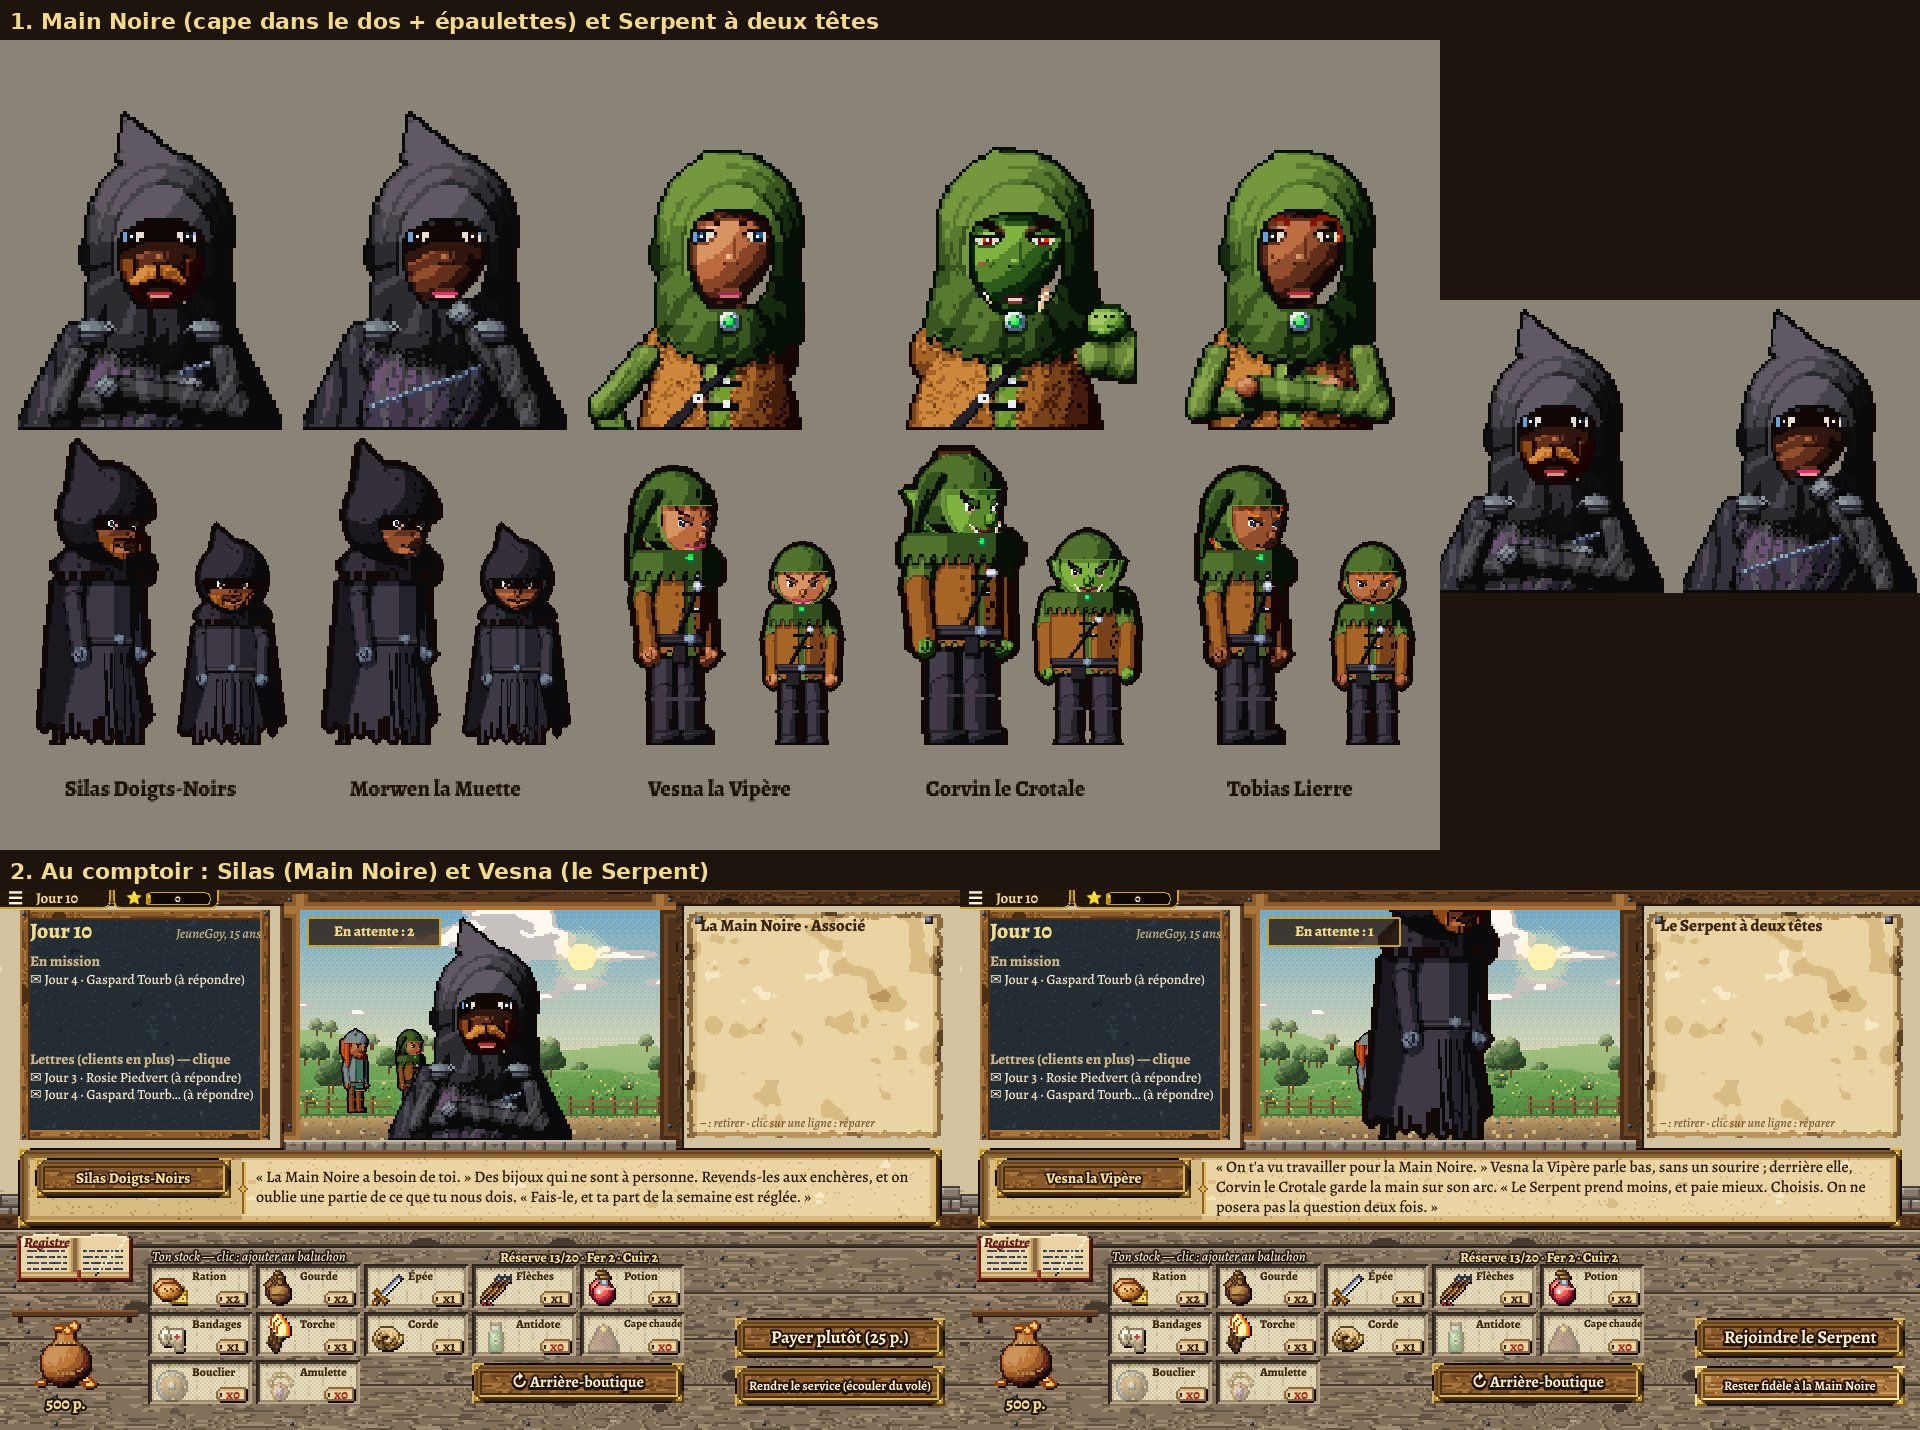
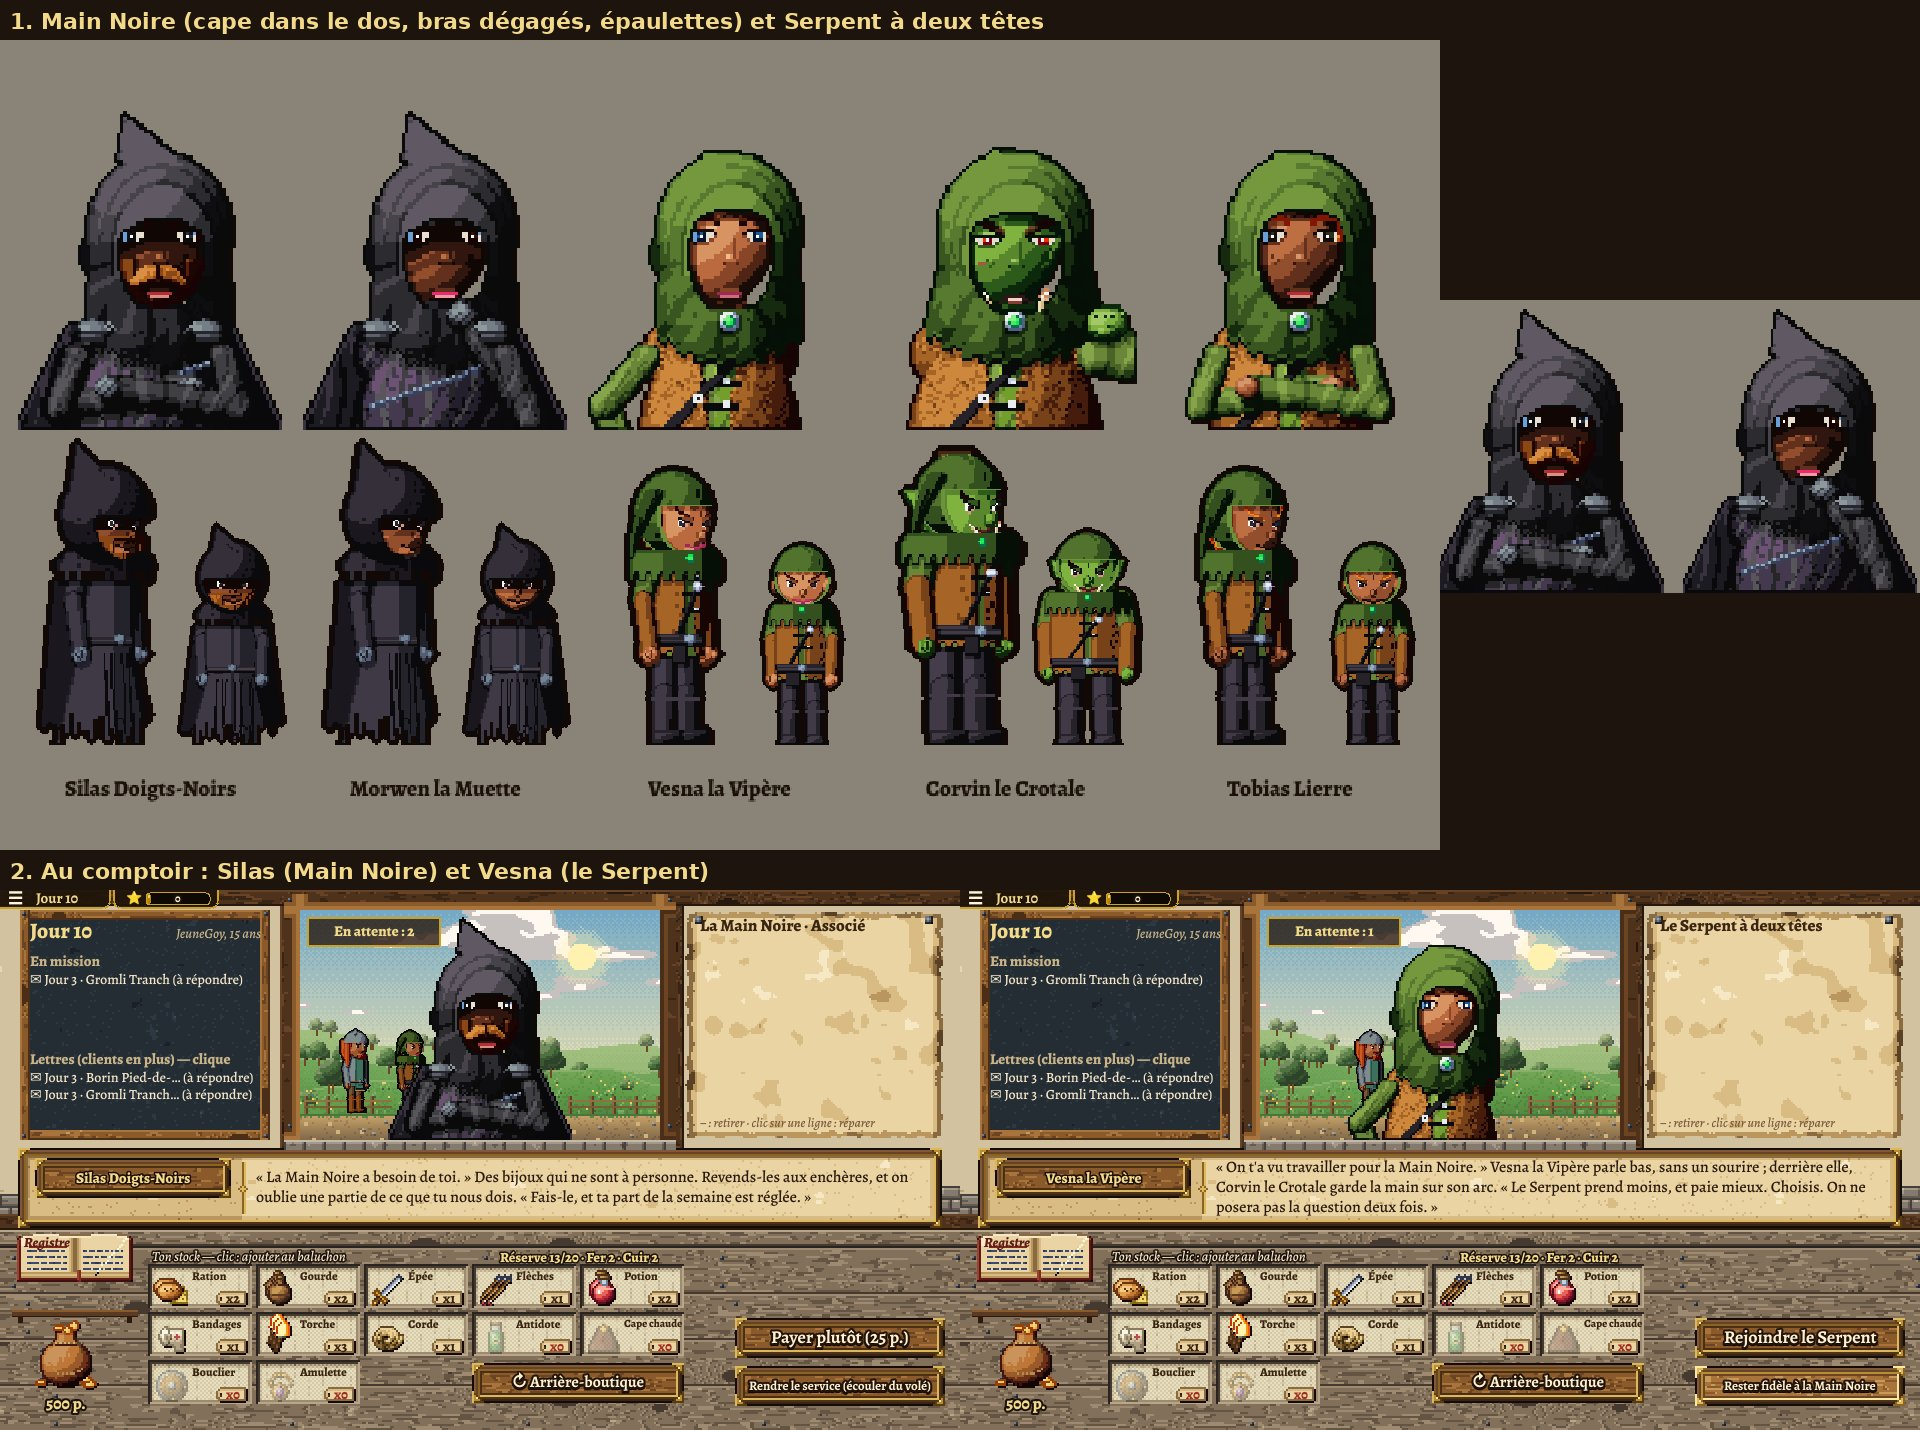
Portraits de la Main Noire : les bras se détachent de la cape (cape plus sombre, ombre du bras le long de la manche, bord extérieur qui accroche la lumière)
Claude-Session: https://claude.ai/code/session_018kbaP56NxxNMUzmj9EfKBC

diff --git a/src/portraitsHD.js b/src/portraitsHD.js
@@ -1042,7 +1042,7 @@ function capucheBuste(t, g, v, cx, ey) {
 // (v0.61) La cape de la Main Noire : elle tombe des épaules derrière le dos, s'évase un peu, et on
 // n'en voit que les bords de chaque côté du corps (plus sombre que la robe, avec ses grands plis)
 function capeDosBuste(t, g, v, cx) {
-  t.rampes.capeDos = rampe(0x34323a);
+  t.rampes.capeDos = rampe(0x1c1b21);
   const epaule = (LARGEURS_BUSTE[g.race] || 20) + 2.5;
   const haut = v.torse + 2;
   t.forme('capeDos', (x, y) => {
@@ -1056,6 +1056,16 @@ function capeDosBuste(t, g, v, cx) {
 // Les épaulettes de la Main Noire : deux petites plaques de fer sombre posées sur le camail, au bord
 // des épaules, et l'agrafe d'où part la cape (un anneau et un bout de chaîne)
 function epaulettesBuste(t, g, v, cx) {
+  // (les bras se détachent de la cape : elle prend l'ombre du bras le long de la manche, et son
+  // bord extérieur accroche un peu la lumière pour qu'on la devine quand même)
+  const ombres = [], bords = [];
+  for (let y = v.torse; y < HD_H; y++) for (let x = 0; x < HD_L; x++) {
+    if (t.mat(x, y) !== 'capeDos') continue;
+    if ([[1, 0], [-1, 0], [0, -1], [2, 0], [-2, 0]].some(([a, b]) => ['habit', 'gantelet', 'peau'].includes(t.mat(x + a, y + b)))) ombres.push([x, y]);
+    else if (!t.mat(x - 1, y) || !t.mat(x + 1, y)) bords.push([x, y]);
+  }
+  for (const [x, y] of ombres) t.poser(x, y, 'capeDos', 0);
+  for (const [x, y] of bords) t.poser(x, y, 'capeDos', 4);
   t.rampes.gantelet = t.rampes.gantelet || rampe(0x5c606c);
   const epaule = (LARGEURS_BUSTE[g.race] || 20) + 2.5;
   for (const sens of [-1, 1]) {
